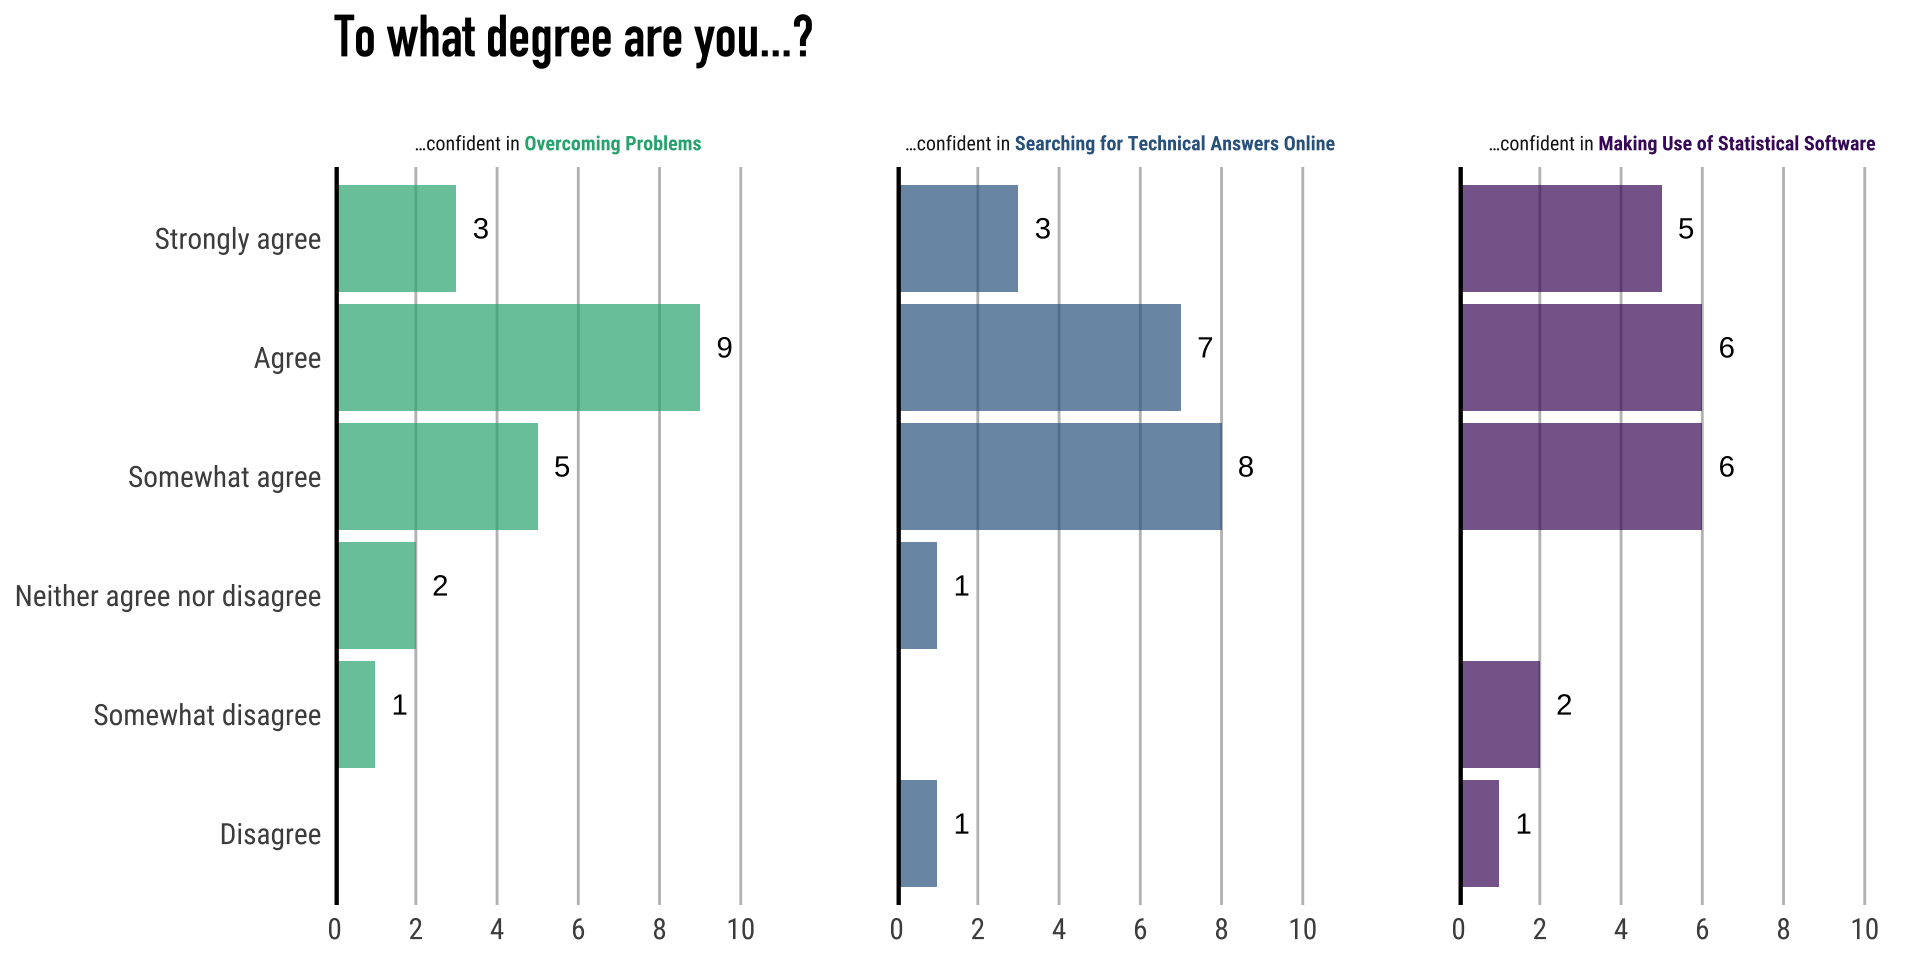
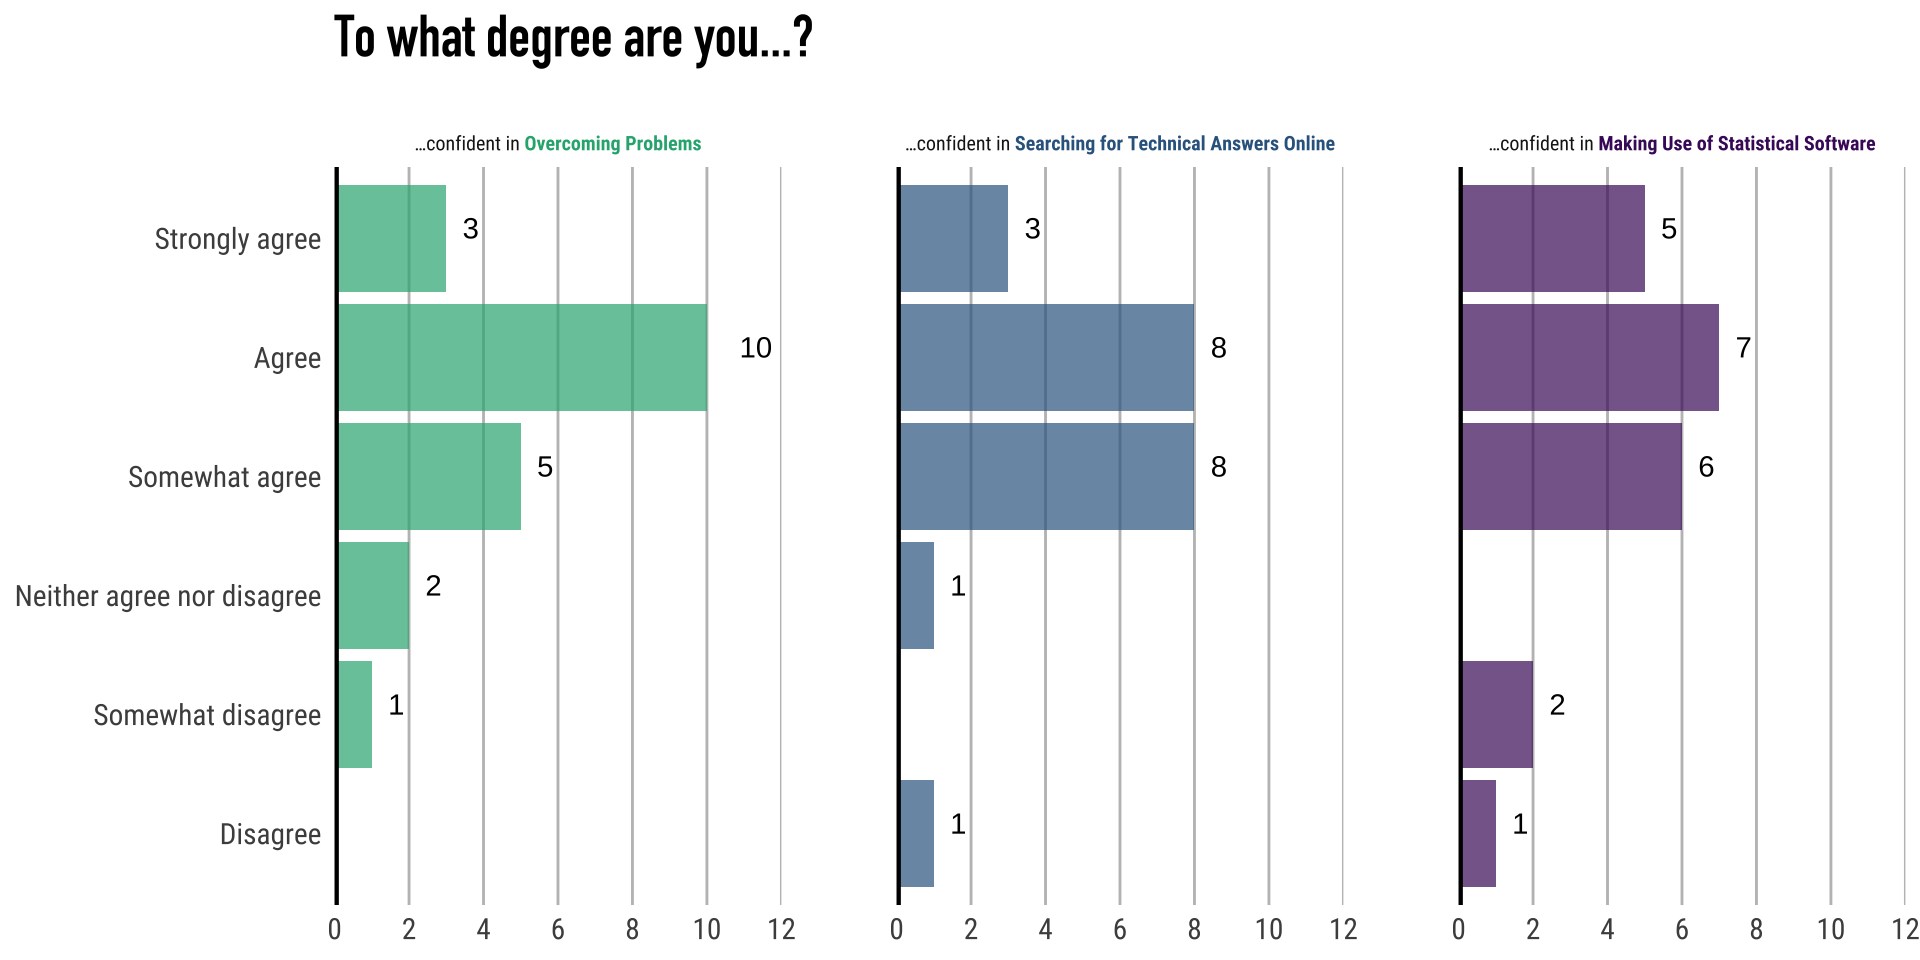
wk1 slides formatting

diff --git a/week-1/slides.html b/week-1/slides.html
@@ -362,7 +362,7 @@ Dr.&nbsp;Kelly Boles
 </ol></li>
 </ul>
 </section>
-<section id="why-positron.qmd-and-not-rstudio.rmd" class="slide level2">
+<section id="why-positron.qmd-and-not-rstudio.rmd" class="slide level2 smaller">
 <h2>Why Positron/.Qmd and not RStudio/.Rmd</h2>
 <hr>
 <ul>
